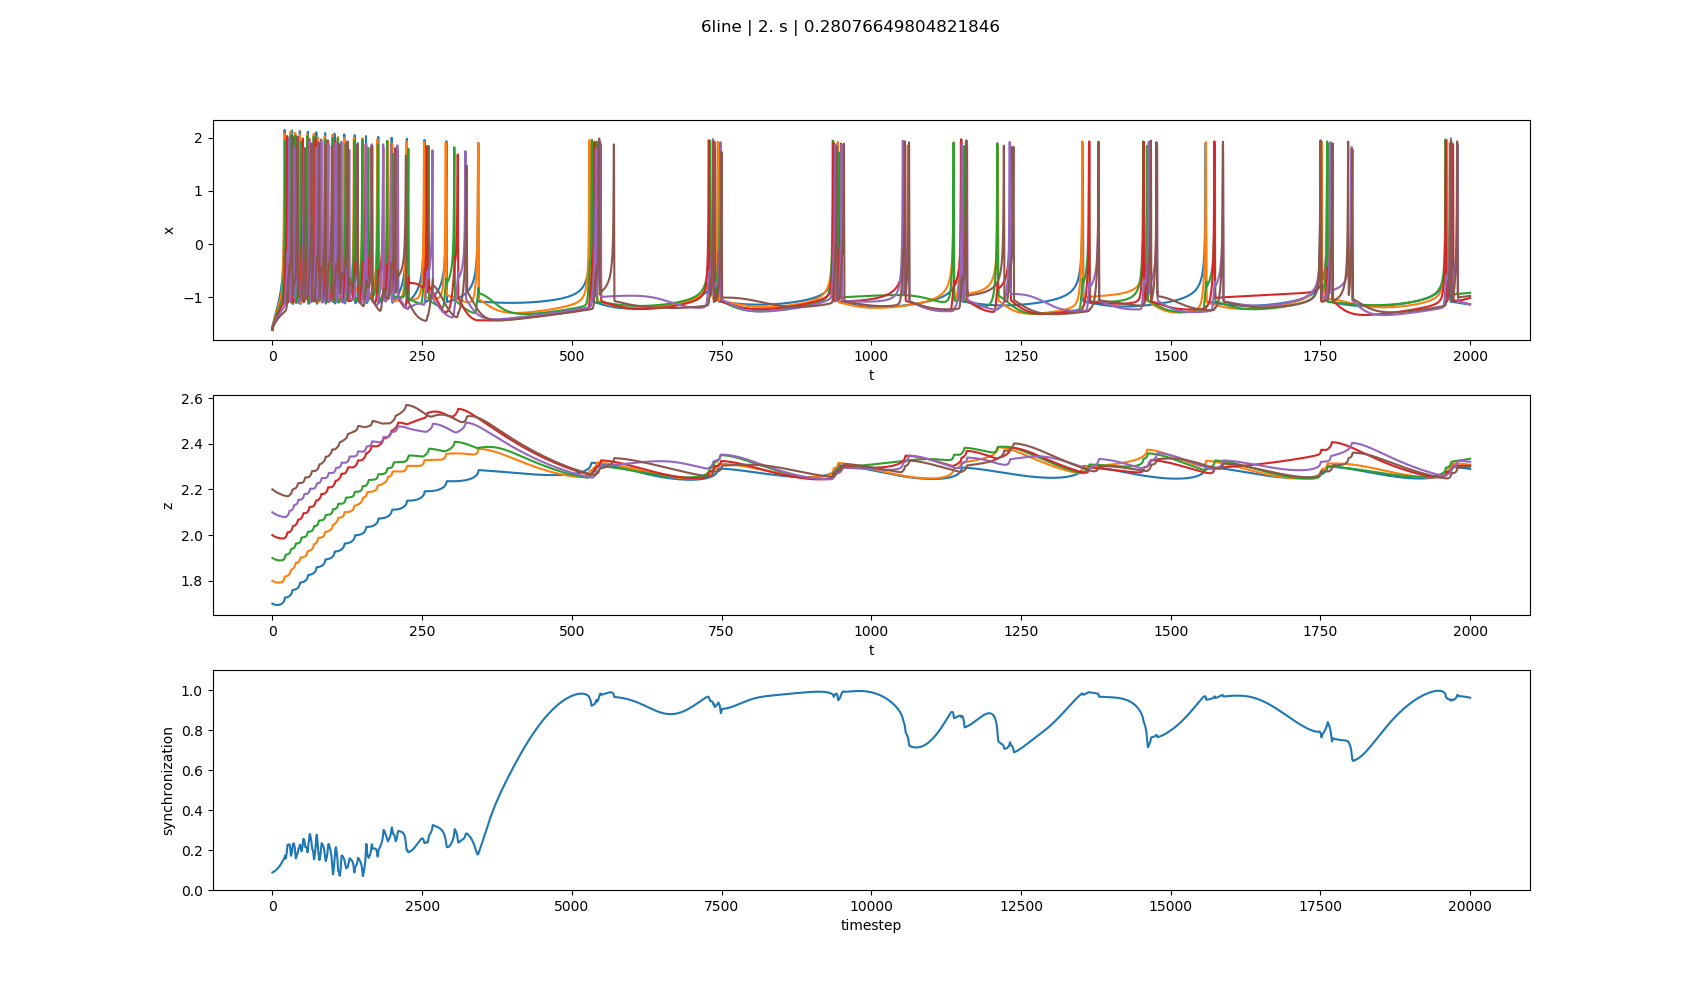
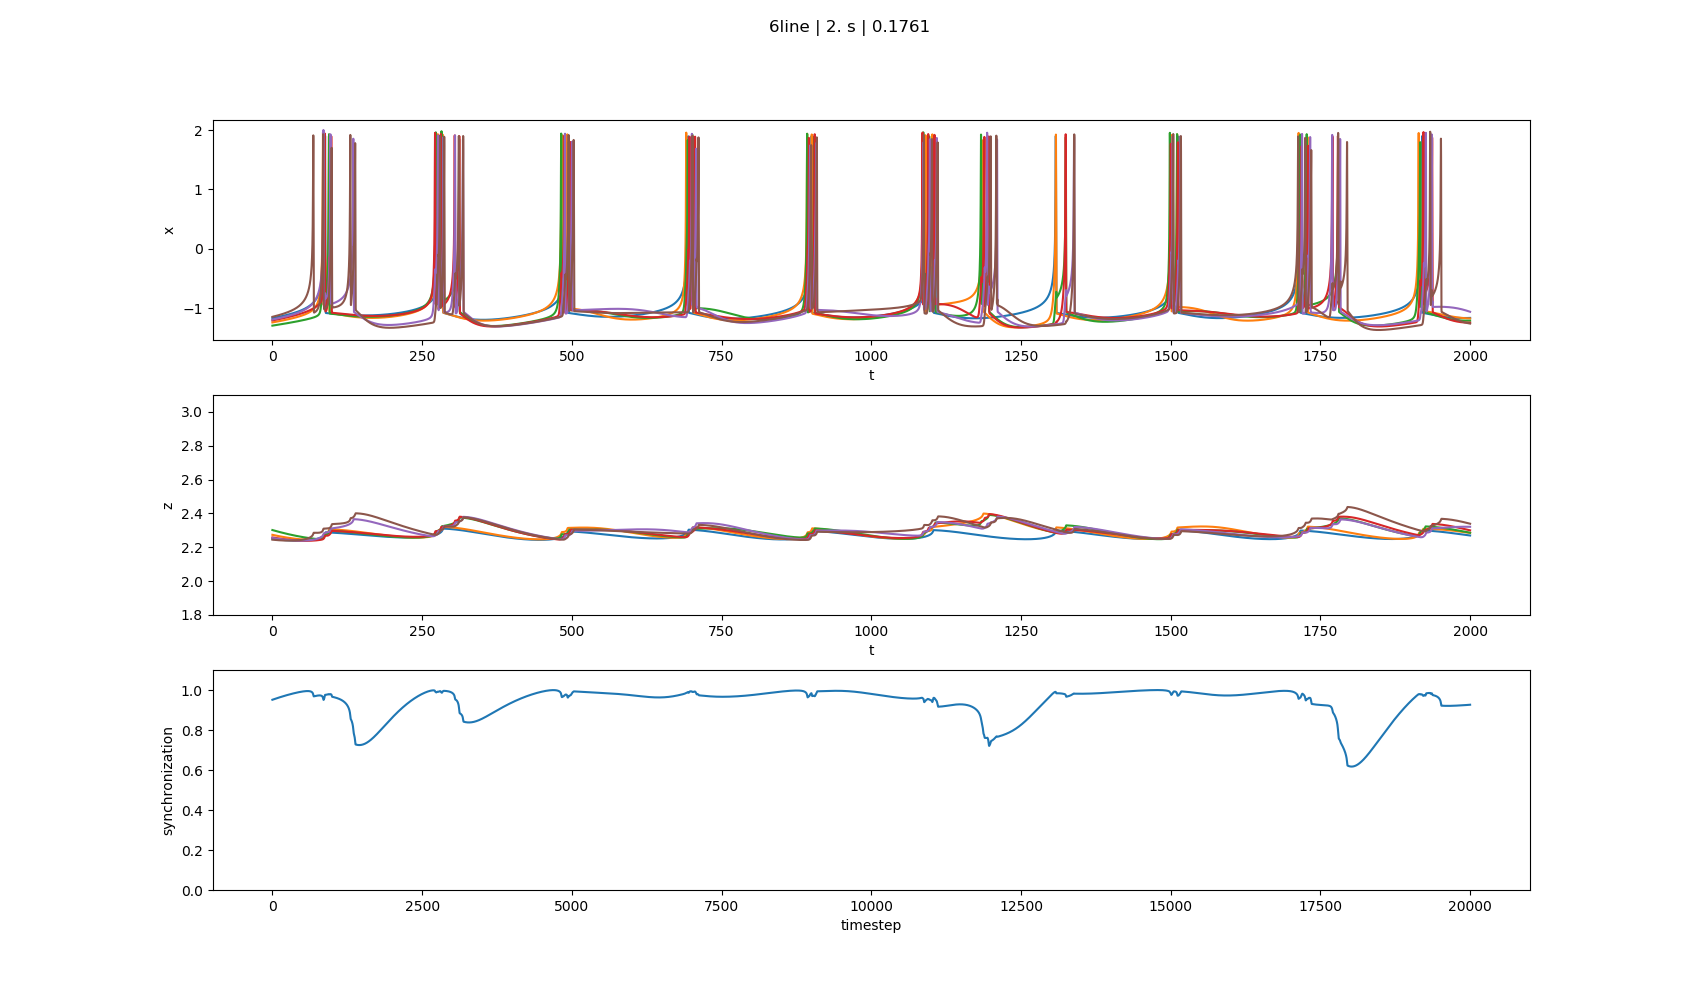
made it able to continue from past simulations

diff --git a/code/dynamics/ablate.py b/code/dynamics/ablate.py
@@ -85,7 +85,7 @@ matrix = sys.argv[1] + ".csv"
 
 N = N_from_Matrix(matrix)                   # number of neurons in network
 N_syn = count_connections(matrix)           # number of synapses
-duration = 2000*ms                          # how long simulations runs
+duration = 1000*ms                          # how long simulations runs
 
 tau_param = {'tau': 1*ms}
 
@@ -143,54 +143,28 @@ perturb = np.random.normal(0,1, (3,N))
 for i in range(len(init_cond.items())):
     sv_inits.append(float(init_cond.items()[i][1]))
 
-if(sys.argv[2] != 'cont'):
-    # print("State variable initial values (x,y,z):")
-    # print(sv_inits)
-    # print("Perturbation values:")
-    # print(perturb)
-    # print("---")
-    # # for normal distribution init cond
-    # for i in range(3):
-    #     setattr(G,sv_list[i],[init_cond[sv_list[i]] + (perturb[i][_]) for _ in range(N)])
+# print("State variable initial values (x,y,z):")
+# print(sv_inits)
+# print("Perturbation values:")
+# print(perturb)
+# print("---")
+# # for normal distribution init cond
+# for i in range(3):
+#     setattr(G,sv_list[i],[init_cond[sv_list[i]] + (perturb[i][_]) for _ in range(N)])
 
-    # uncomment this for loop for the other two init cond regimes
-    for ic,value in init_cond.items():
-        setattr(G,ic,[value for _ in range(N)])
+# uncomment this for loop for the other two init cond regimes
+for ic,value in init_cond.items():
+    setattr(G,ic,[value for _ in range(N)])
 
-    setattr(G,'z',[1.7+(_*0.1) for _ in range(N)])            # for slightly different init cond
-    # setattr(G,'z',[1.7 for _ in range(N)])                  # for uniform init cond
-else:
-    with open("storeddata/" + "lastvals.csv") as csvfile:
-        readCSV = csv.reader(csvfile, delimiter=',')
-        continits = list(readCSV)
-        # print(continits)
-
-    setattr(G,'x',[float(continits[0][_]) for _ in range(N)])
-    setattr(G,'y',[float(continits[1][_]) for _ in range(N)])
-    setattr(G,'z',[float(continits[2][_]) for _ in range(N)])
-
+setattr(G,'z',[1.7+(_*0.1) for _ in range(N)])            # for slightly different init cond
+# setattr(G,'z',[1.7 for _ in range(N)])                  # for uniform init cond
 
 start_time = TIME.time()
 
 print("--- running simulation ----")
 run(duration)                # http://brian2.readthedocs.io/en/stable/reference/brian2.monitors.statemonitor.StateMonitor.html
 
-
-xlast = []
-ylast = []
-zlast = []
-for i in range(N):
-        xlast.append(M.x[i][-1])
-        ylast.append(M.y[i][-1])
-        zlast.append(M.z[i][-1])
-
-lastvals = [xlast,ylast,zlast]
-
-np.savetxt("storeddata/" + "lastvals.csv", lastvals, delimiter=",", fmt='%s')
-
-
 ######################## PLOTTING ##############################################
-
 
 simulation = plt.figure(figsize=(17,10))
 title = matrix[:-4] + " | " + str(duration) + " | "
@@ -205,63 +179,88 @@ simulation.add_subplot(3,1,2)
 for i in range(0,N):
     plt.ylabel('z')
     plt.xlabel("t")
-    plt.ylim(1.8,3.1)
     plot(M.t/ms, getattr(M,'z')[i])
 
 
 sys.stdout.write('\x1b[1A')
 sys.stdout.write('\x1b[2K')                 # gets rid of some error that ruins my A E S T H E T I C
-print("--- measuring synchrony ---")
 
-num_timesteps = int(str(duration).split(".")[0]) * 100000
-simMinlist = []
-simMaxlist = []
 
+xlast = []
+ylast = []
+zlast = []
 for i in range(N):
-    simMinlist.append(np.min(M[i].z[(num_timesteps/2):]))
-    simMaxlist.append(np.max(M[i].z[(num_timesteps/2):]))
+        xlast.append(M.x[i][-1])
+        ylast.append(M.y[i][-1])
+        zlast.append(M.z[i][-1])
 
-simMin = np.min(simMinlist)
-simMax = np.max(simMaxlist)
-# print(simMin,simMax)                            # I think we should sample from like halfway through the simulation to the end because having the network synchronize screws up the min and max
-# print(scaleToInterval(0,simMin,simMax))
+print(xlast)
+print(ylast)
+print(zlast)
 
-scaledM = []
+setattr(G,'x',[xlast[_] for _ in range(N)])
+setattr(G,'y',[ylast[_] for _ in range(N)])
+setattr(G,'z',[zlast[_] for _ in range(N)])
 
-for i in range(0,N):
-    scaledM.append([])
-    for j in range(0, num_timesteps/10):
-        scaledM[i].append(scaleToInterval(M[i].z[10*j], simMin, simMax))
-
-
-phasic = []
-for i in range(0,len(scaledM[0])):
-    phasic.append(0)
-    for j in range(0,N):
-         phasic[i] += cmath.exp(complex(scaledM[j][i],0)*complex(0,1))
-
-    phasic[i] = abs(phasic[i])/N
+S.connect(condition='p=0.9')
+run(duration)
 
 
-h = phasic[len(phasic)/3:]
-dhdt = []
-for i in range(1,len(h)):
-    dhdt.append(abs(h[i] - h[i-1]) * 1000)
 
-averagesync = sum(dhdt)/len(dhdt)
-print("Synchronization value: " + str(averagesync))
-title += str('%.4f'%(averagesync))
 
-simulation.add_subplot(3,1,3)
-simulation.suptitle(title)
-
-plt.plot(phasic)
-plt.ylim(ymin = 0, ymax = 1.1)
-plt.ylabel("synchronization")
-plt.xlabel("timestep")
+# print("--- measuring synchrony ---")
+#
+# num_timesteps = int(str(duration).split(".")[0]) * 100000
+# simMinlist = []
+# simMaxlist = []
+#
+# for i in range(N):
+#     simMinlist.append(np.min(M[i].z[(num_timesteps/2):]))
+#     simMaxlist.append(np.max(M[i].z[(num_timesteps/2):]))
+#
+# simMin = np.min(simMinlist)
+# simMax = np.max(simMaxlist)
+# # print(simMin,simMax)                            # I think we should sample from like halfway through the simulation to the end because having the network synchronize screws up the min and max
+# # print(scaleToInterval(0,simMin,simMax))
+#
+# scaledM = []
+#
+# for i in range(0,N):
+#     scaledM.append([])
+#     for j in range(0, num_timesteps/10):
+#         scaledM[i].append(scaleToInterval(M[i].z[10*j], simMin, simMax))
+#
+#
+# phasic = []
+# for i in range(0,len(scaledM[0])):
+#     phasic.append(0)
+#     for j in range(0,N):
+#          phasic[i] += cmath.exp(complex(scaledM[j][i],0)*complex(0,1))
+#
+#     phasic[i] = abs(phasic[i])/N
+#
+#
+# h = phasic[len(phasic)/2:]
+# dhdt = []
+# for i in range(1,len(h)):
+#     dhdt.append(abs(h[i] - h[i-1]) * 1000)
+#
+# averagesync = sum(dhdt)/len(dhdt)
+# print("Synchronization value: " + str(averagesync))
+# title += str('%.4f'%(averagesync))
+#
+# simulation.add_subplot(3,1,3)
+# simulation.suptitle(title)
+#
+# plt.plot(phasic)
+# plt.ylim(ymin = 0, ymax = 1.1)
+# plt.ylabel("synchronization")
+# plt.xlabel("timestep")
 
 print("   ")
 print("--- %s seconds ---" % (TIME.time() - start_time))
+
+###############################################################################
 
 G = make_NX_graph(matrix)
 
